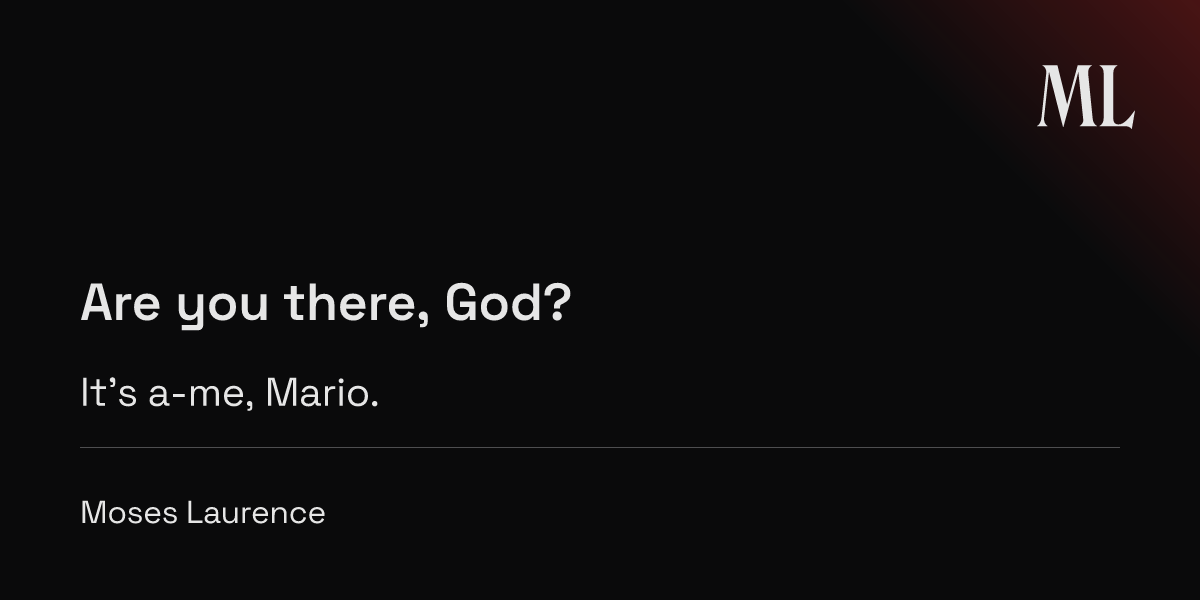
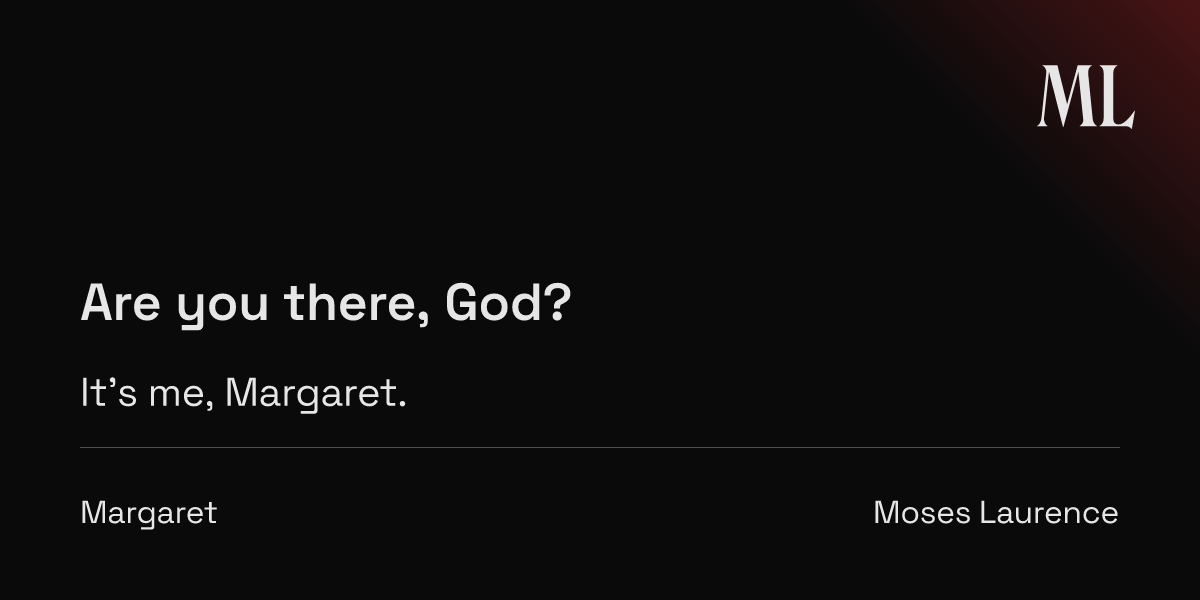
consistency, new og, new domain

Changed region(s): [[0.1233, 0.63, 0.3392, 0.69], [0.7092, 0.84, 0.9558, 0.87], [0.0925, 0.84, 0.2775, 0.9]]

diff --git a/index.html b/index.html
@@ -11,9 +11,9 @@
   <link rel="stylesheet" type="text/css" media="screen" href="./main.css">
   <link rel="shortcut icon" href="favicon.svg" type="image/svg+xml">
   <meta property="description" content="Are you there God? It's me, Margaret.">
-  <meta property="og:title" content="It's a-me, Mario!">
   <meta property="og:description" content="Are you there God? It's me, Margaret.">
-  <meta property="og:image" content="http://itsame.netlify.app/og.png">
+  <meta property="og:title" content="Margaret">
+  <meta property="og:image" content="http://margaret.ijkml.dev/og.png">
   <meta property="og:image:type" content="image/png">
   <meta property="og:image:width" content="1200">
   <meta property="og:image:height" content="600">
